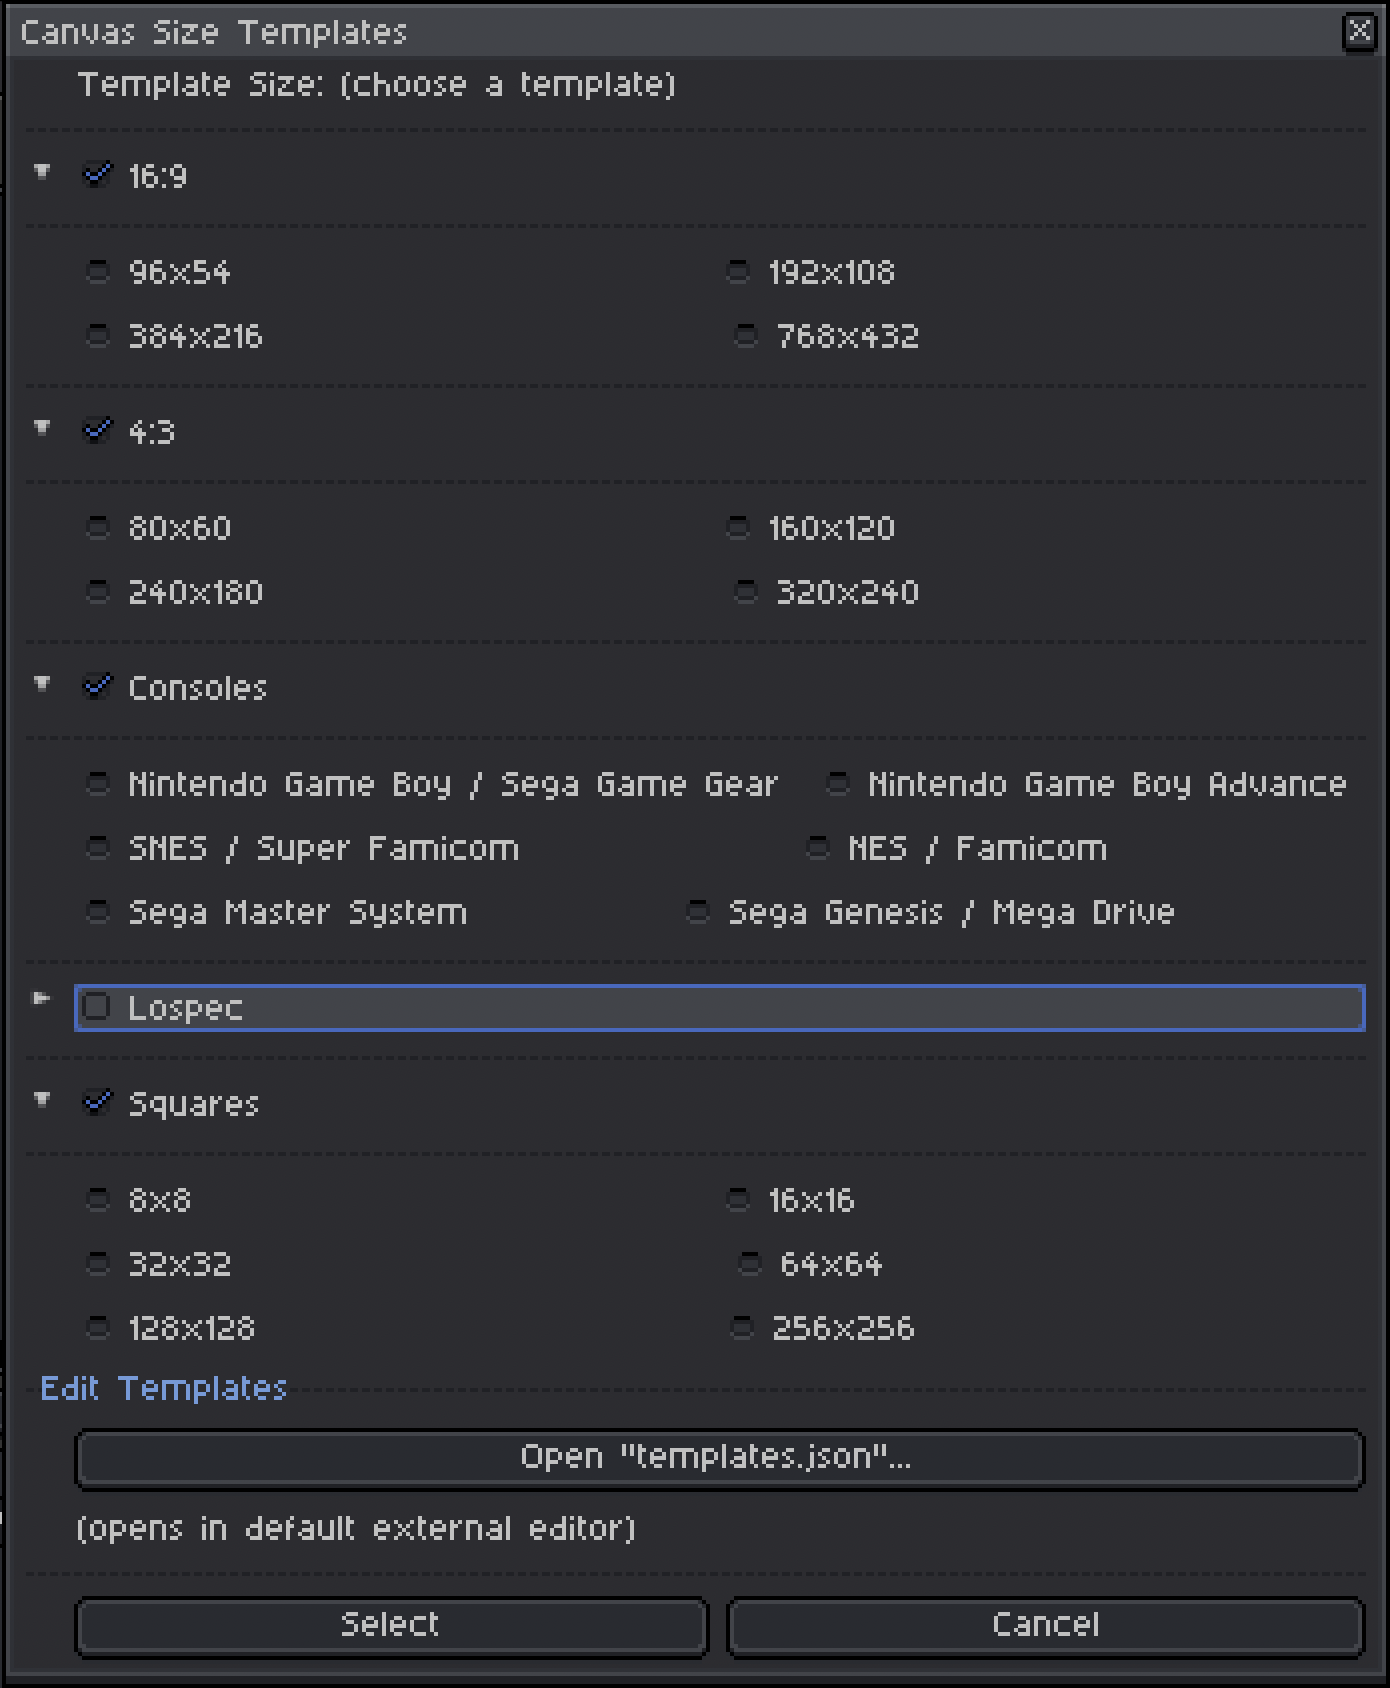
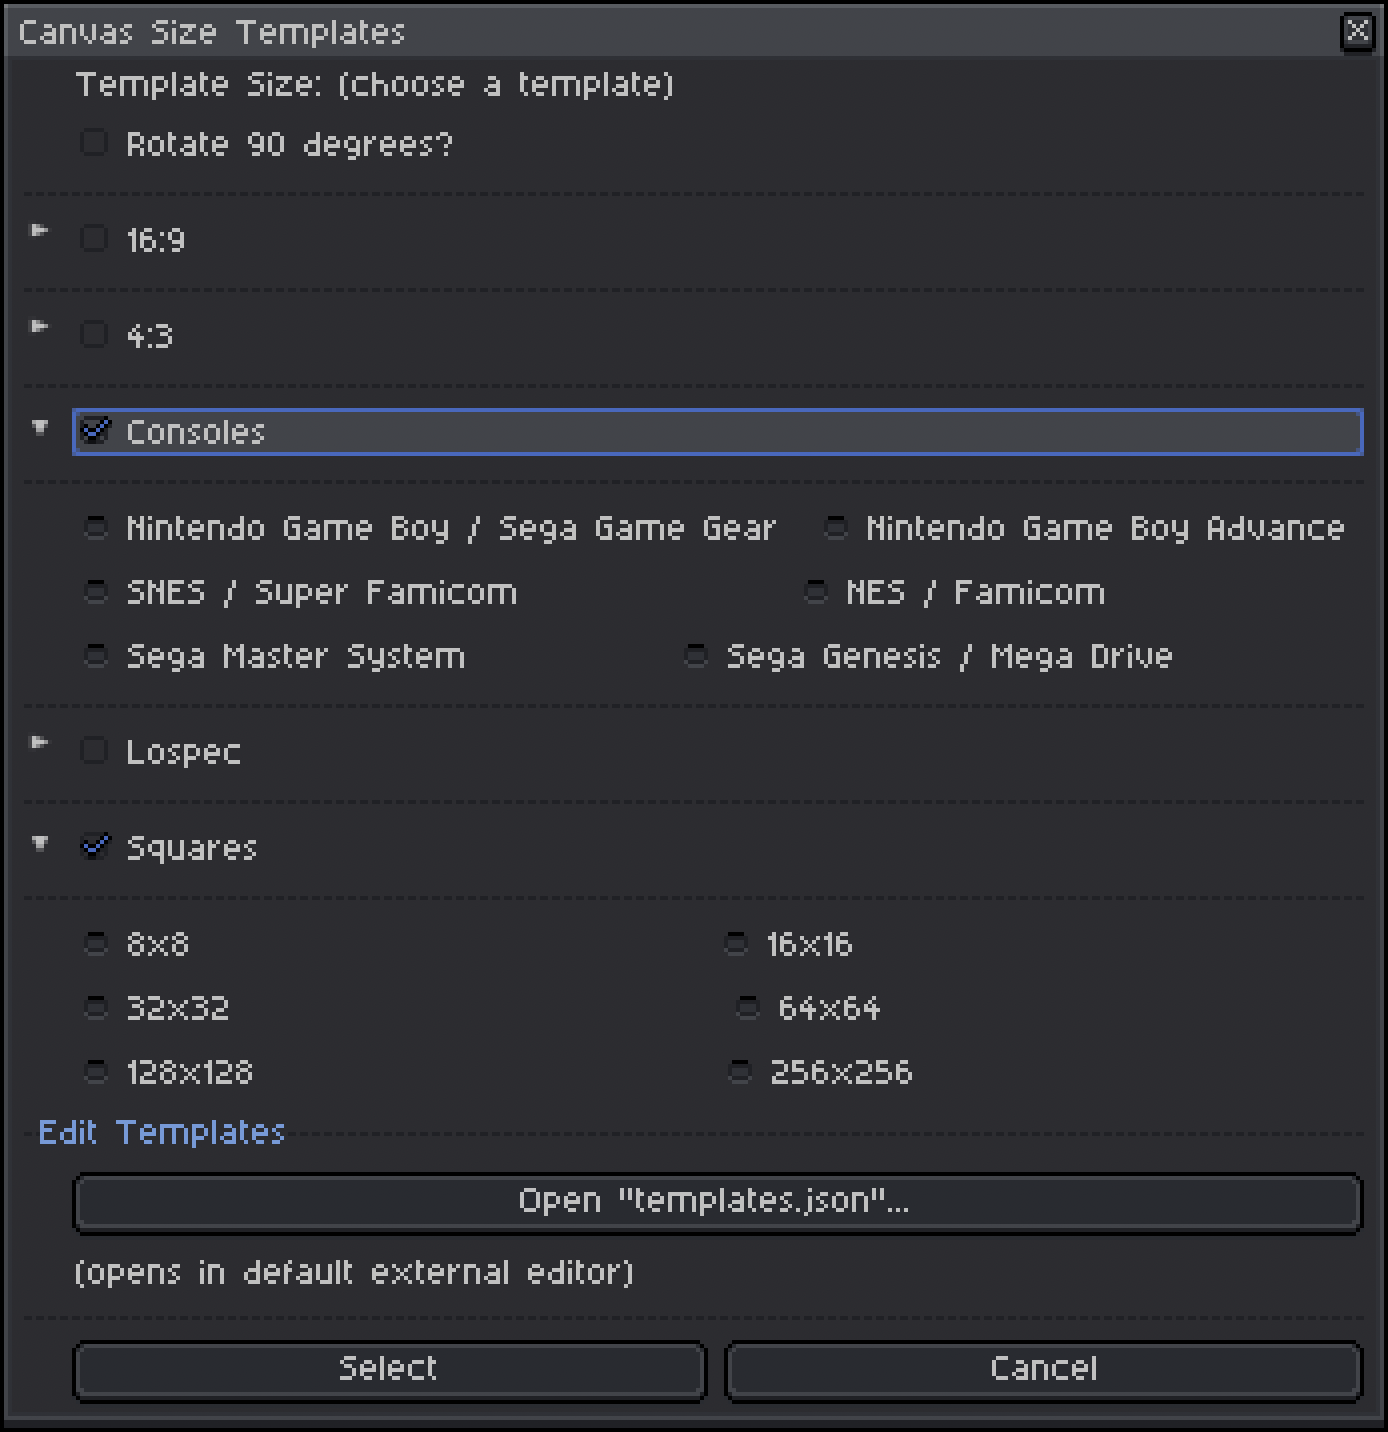
update README.md
bump version & latest changes info, update screenshot

diff --git a/README.md b/README.md
@@ -1,12 +1,11 @@
 # Canvas Templates
 
 #### An Aseprite extension
-*current release: v1.0.0*
+*current release: v1.1.0*
 (https://sudo-whoami.itch.io/canvas-templates)*
 
 ## Latest Changes
-- UI updates
-- Templates in each category are now sorted by size
+- You can now rotate the chosen template by 90 degrees (swap its width and height)
 
 ##
 This [Aseprite](https://aseprite.org) extension provides predifined canvas size templates for new Aseprite files. Several template sizes are included for common aspect ratios, game consoles, and more!
